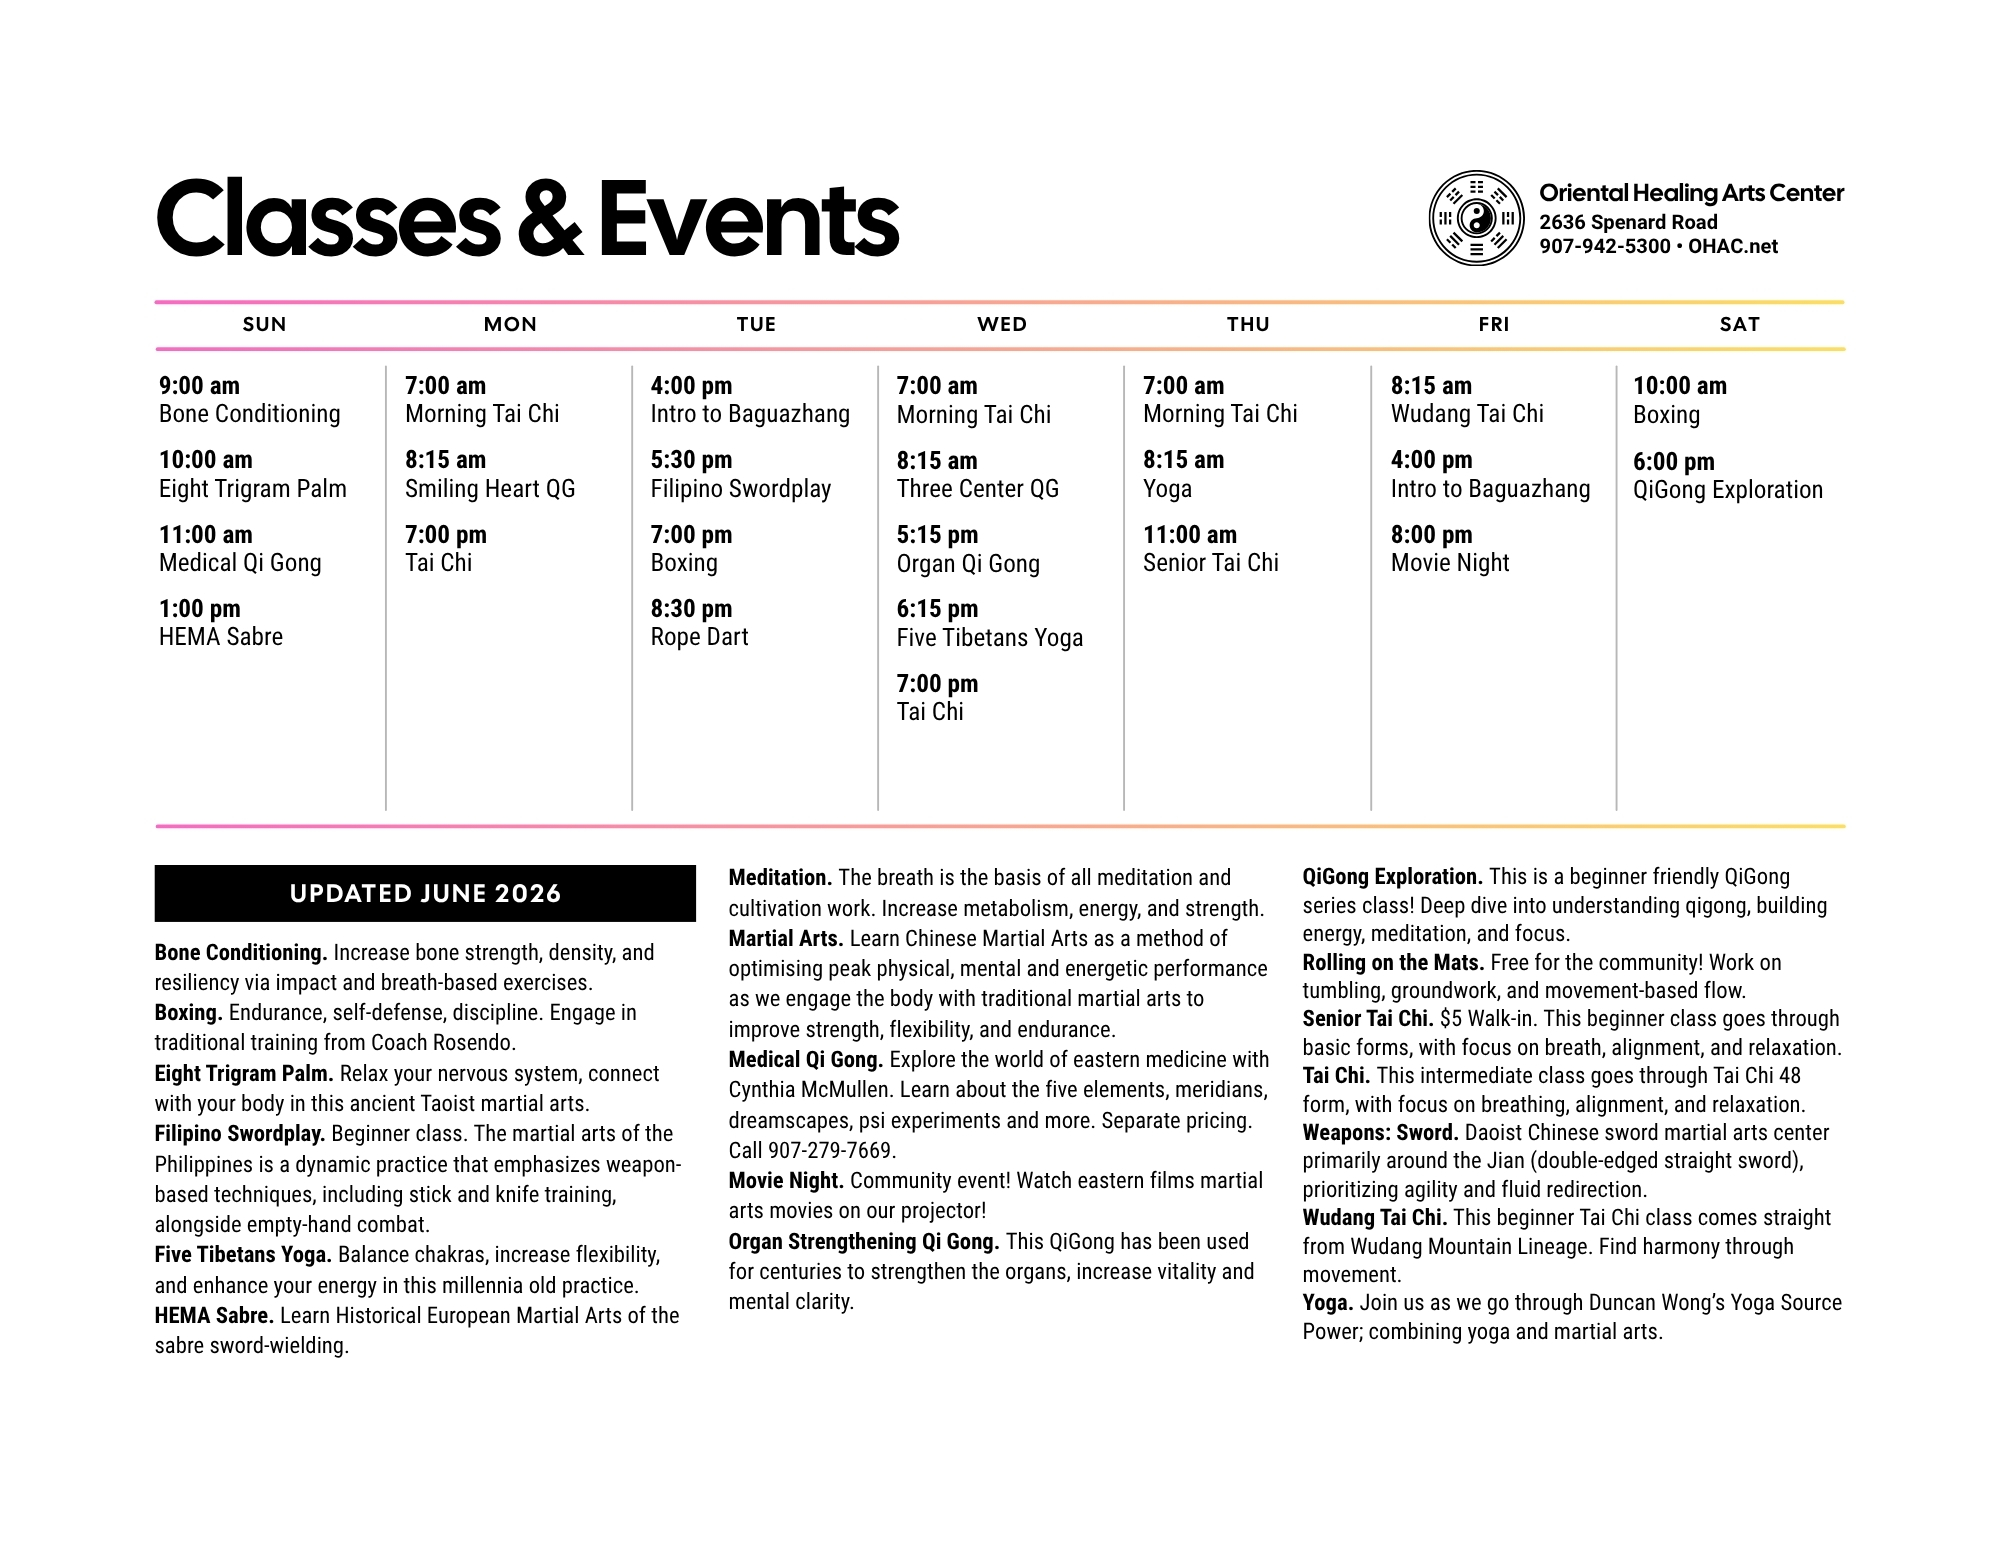
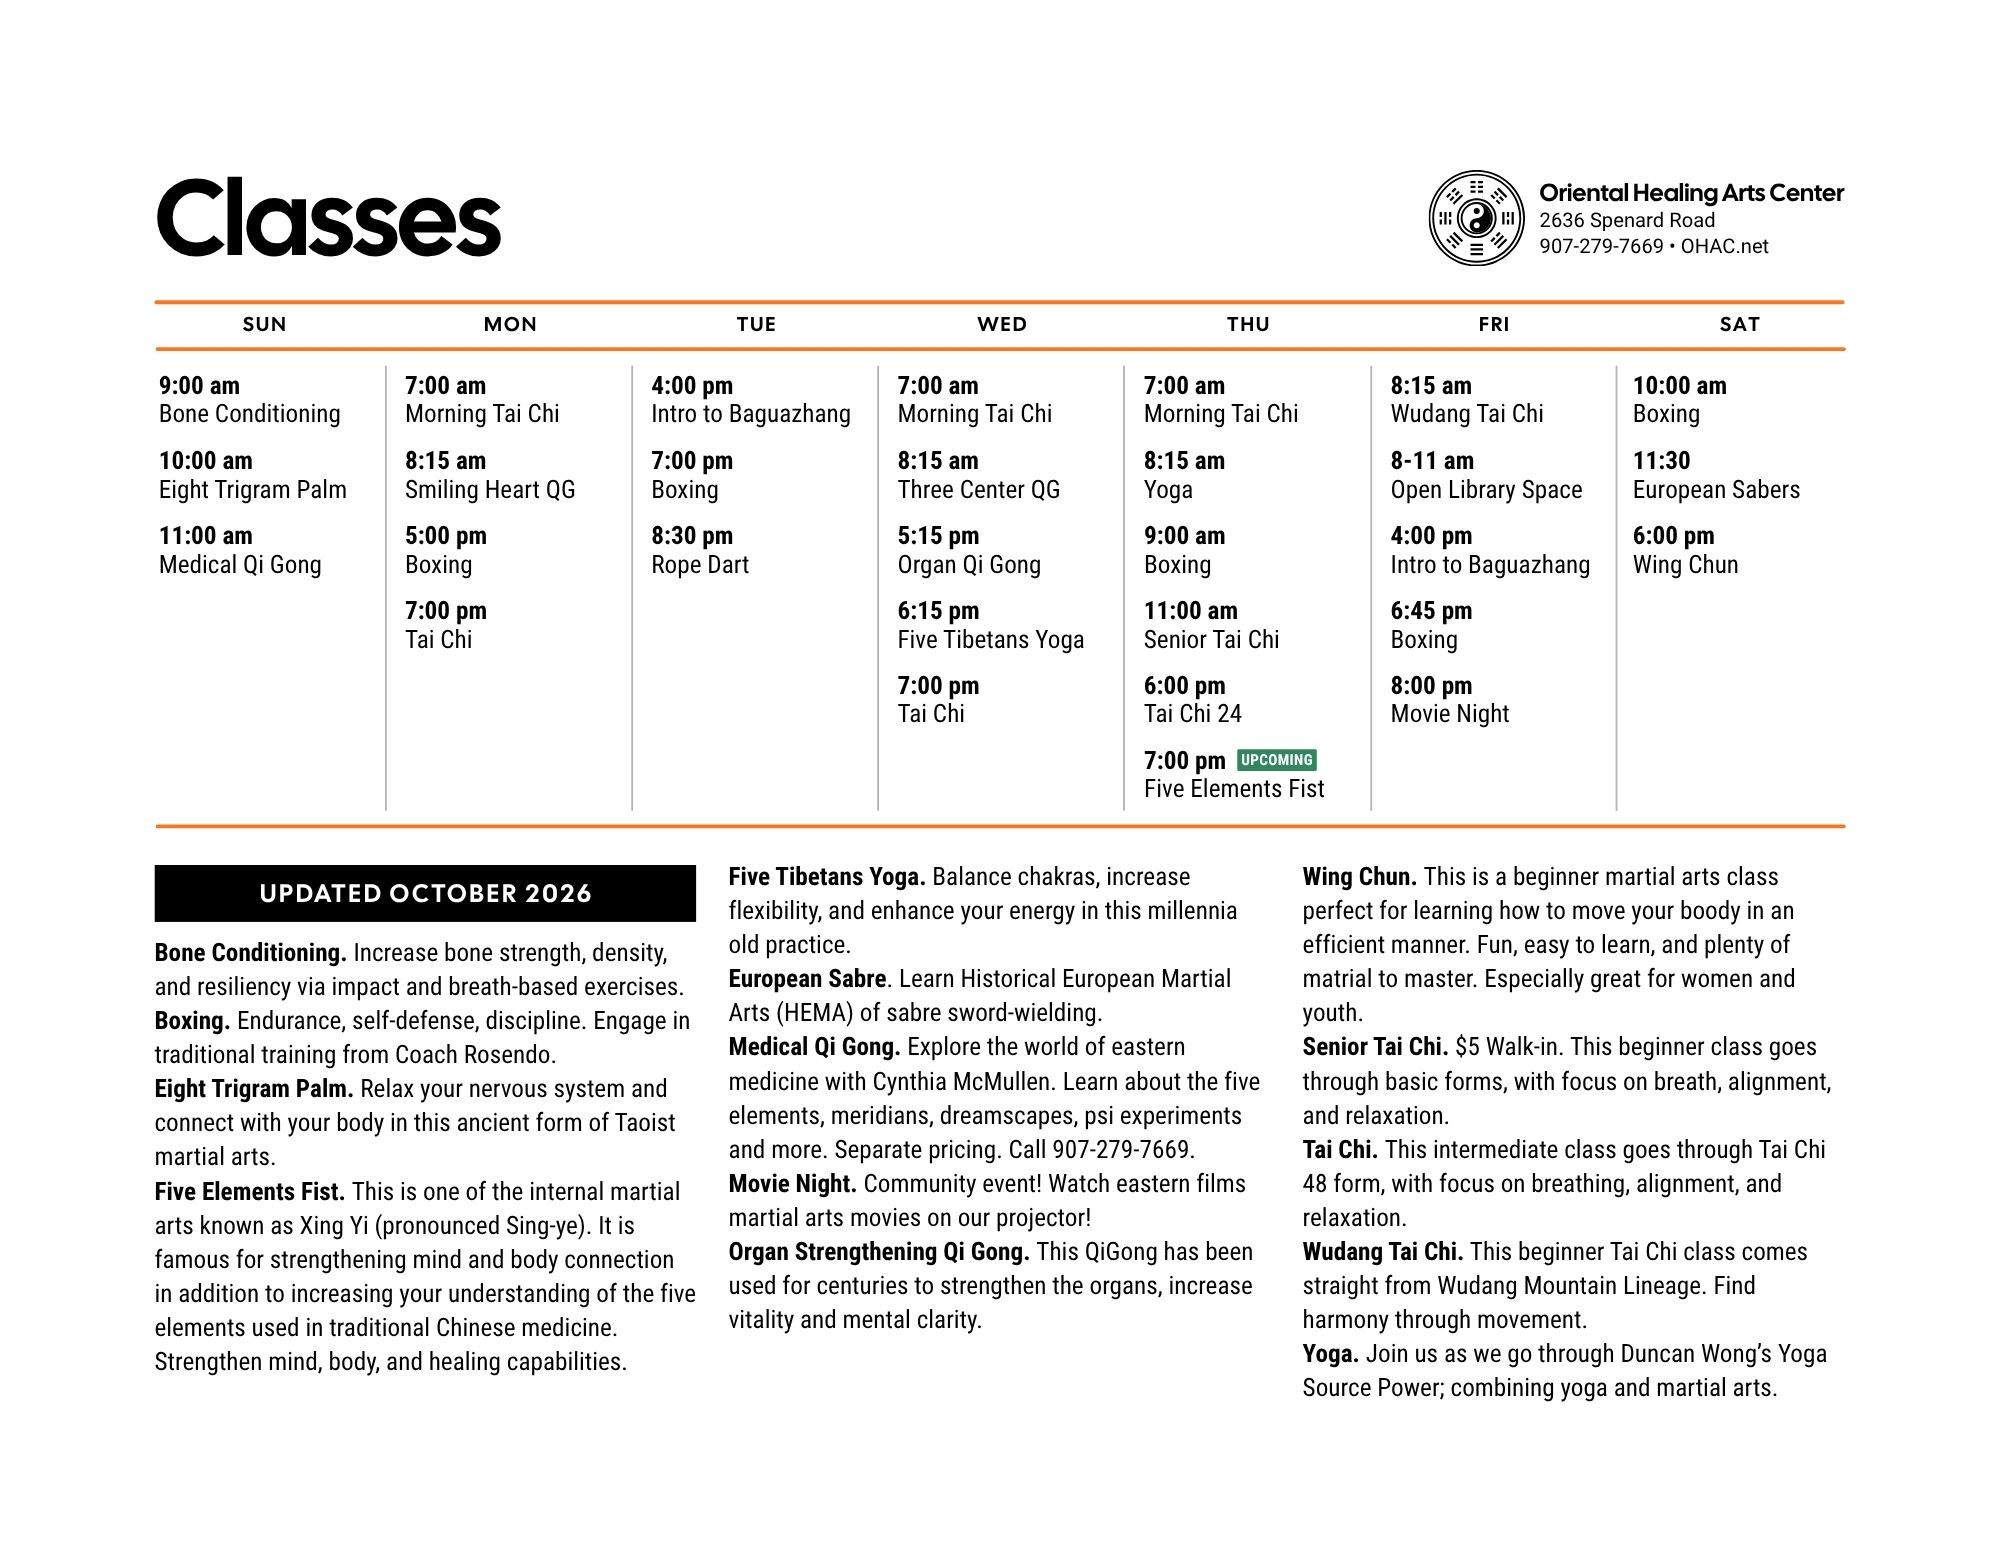
oct update

diff --git a/index.html b/index.html
@@ -23,11 +23,10 @@
                 <ul>
                     <!-- <li><a href="about.html">About</a></li> -->
                     <!-- <li><a href="calendar.html">Calendar</a></li> -->
-                    <li><a href="fest.html">2026 Festival</a></li>
                     <li><a href="events.html">Events</a></li>
+                    <li><a href="https://www.instagram.com/orientalhealingarts" target="_blank">Instagram</a></li>
                     <li><a href="book.html">Rent Space</a></li>
                     <li><a href="https://maps.app.goo.gl/WfCus7sQL3XghVKfA" target="_blank">Location</a></li>  
-                    <li><a href="https://www.instagram.com/orientalhealingarts" target="_blank">Instagram</a></li>
                     <li><a href="https://www.facebook.com/orientalhealingartscenter/events" target="_blank">Facebook</a></li>       
                     <li><a href="https://checkout.square.site/merchant/AKWW0PE70WR37/checkout/DMQM62OHEXDYYTLERFH2TN3R" target="_blank">Give</a></li>          
                     <!-- <li><a href="photos.html">Pictures</a></li> -->

diff --git a/events.html b/events.html
@@ -19,19 +19,13 @@
 
         <div class="events" >
             <a href="assets/events.jpg">
-                <img src="assets/events.jpg">                
-            </a>
-            <a href="fest.html">
-                <img src="assets/fest.jpg">                
+                <img src="assets/events.jpg">
             </a>
             <a href="assets\event-rd.jpg">
                 <img src="assets\event-rd.jpg">
             </a>
             <a href="assets\event-tc.jpg">
                 <img src="assets\event-tc.jpg">
-            </a>
-            <a href="assets\event-fma.jpg">
-                <img src="assets\event-fma.jpg">
             </a>
             <a href="assets\event-boxing.jpg">
                 <img src="assets\event-boxing.jpg">
